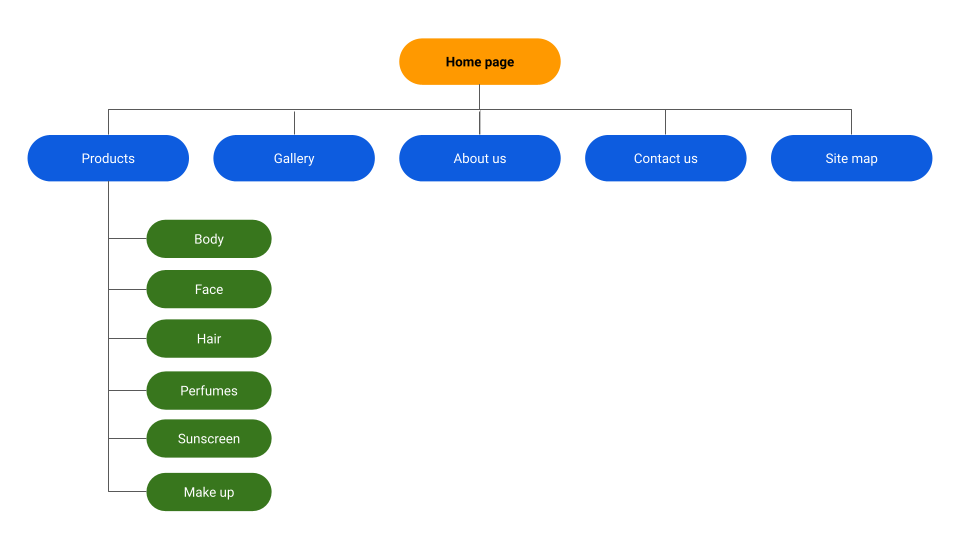
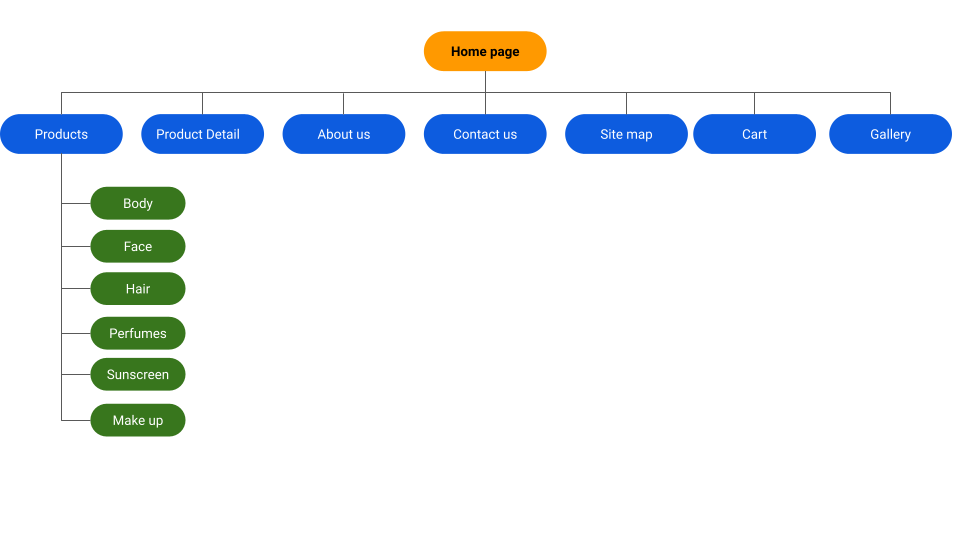
big update

Changed region(s): [[0.0, 0.2074, 1.0, 0.9481], [0.4062, 0.0593, 0.5938, 0.1778]]

diff --git a/src/HomePage.js b/src/HomePage.js
@@ -11,6 +11,7 @@ function Main() {
   const [currentSlide, setCurrentSlide] = useState(0);
   const [products, setProducts] = useState([]);
   const [filteredProducts, setFilteredProducts] = useState([]);
+  const navigate = useNavigate();
 
   useEffect(() => {
     fetchProducts();
@@ -49,7 +50,7 @@ function Main() {
       breakpoint: 1200,
       settings: {
         slidesToShow: 3,
-        slidesToScroll: 3,
+        slidesToScroll: 1,
         duration: 300, // Adjust duration for smoother transition
         easing: 'ease-in-out' // Use smooth easing function
       }
@@ -58,7 +59,7 @@ function Main() {
       breakpoint: 800,
       settings: {
         slidesToShow: 2,
-        slidesToScroll: 2,
+        slidesToScroll: 1,
         duration: 300,
         easing: 'ease-in-out'
       }
@@ -158,7 +159,7 @@ function Main() {
               <Slide cssClass='Main__slide--layout' autoplay={false} canSwipe={false} transitionDuration={500} slidesToScroll={1} slidesToShow={4} responsive={responsiveSettings}>
                 {filteredProducts.slice(0, 9).map(product => (
                   <div className='Main__slide--detail' key={product.id}>
-                    <Card style={{ width: '18rem' }}>
+                    <Card  onClick={() => navigate(`/Product/${product.id}`)} style={{ width: '18rem' }}>
                       <Card.Img className='Main__slide--img' variant="top" src={process.env.PUBLIC_URL + '../proImg/' + product.img_url.split(",")[0] + ".jpg"} />
                       <Card.Body className='Main__slide--tiitle'>
                         <Card.Title>{product.name}</Card.Title>
@@ -186,27 +187,27 @@ function Main() {
 }
 
 
-function Product({name,img_url,price,rating,id}){
-  var pic=img_url?.split(",")[0]+".jpg";
+// function  Product({name,img_url,price,rating,id}){
+//   var pic=img_url?.split(",")[0]+".jpg";
 
-  const navigate = useNavigate();
-  return(
-      <div onClick={() => navigate(`/Product/${id}`)}>
-      <Card className='Product__layout'>
-        <Card.Img className='Product__img' variant="top" src={process.env.PUBLIC_URL + "../proImg/"+pic}  />
-        <Card.Body>
-          <Card.Title>{name}</Card.Title>
-          <Card.Text>
-            {price }<br />
-            <div className="product-rating">
-              {"★".repeat(Math.floor(rating)) +
-              "☆".repeat(5 - Math.floor(rating))}
-            </div>
-          </Card.Text>
-        </Card.Body>
-      </Card>
-       </div>                      
-  )
-}
+//   const navigate = useNavigate();
+//   return(
+//       <div onClick={() => navigate(`/Product/${id}`)}>
+//       <Card className='Product__layout'>
+//         <Card.Img className='Product__img' variant="top" src={process.env.PUBLIC_URL + "../proImg/"+pic}  />
+//         <Card.Body>
+//           <Card.Title>{name}</Card.Title>
+//           <Card.Text>
+//             {price }<br />
+//             <div className="product-rating">
+//               {"★".repeat(Math.floor(rating)) +
+//               "☆".repeat(5 - Math.floor(rating))}
+//             </div>
+//           </Card.Text>
+//         </Card.Body>
+//       </Card>
+//        </div>                     
+//   )
+// }
 
 export default Main;

diff --git a/src/Sitemap.js b/src/Sitemap.js
@@ -5,13 +5,14 @@ function Sitemap(){
         <>
             <div className='Sitemap'><img useMap='#sitemap' src={process.env.PUBLIC_URL + '../img/Banner-hero img/site map.png'} class=" img-fluid" alt="Site map"></img></div>
             <map name="sitemap">
-                <area shape="rect" coords="403,37,560,80" href="/" alt="Home" />
-                <area shape="rect" coords="30,130,185,180" href="/Product" alt="Product" />
-                <area shape="rect" coords="215,130,380,180" href="/Gallery" alt="gallery" />
-                <area shape="rect" coords="400,130,560,180" href="/aboutus" alt="About us" />
-                <area shape="rect" coords="580,130,750,180" href="/contactus" alt="Contact us" />
-                <area shape="rect" coords="770,130,940,180" href="/sitemap" alt="Site map" />
-                {/* <area shape="rect" coords="215,130,380,180" href="/Gallery" alt="gallery" /> */}
+                <area shape="rect" coords="430,115,550,150" href="/" alt="Home" />
+                <area shape="rect" coords="5,115,120,150" href="/Product" alt="Product" />
+                <area shape="rect" coords="140,115,260,150" href="/Product/1" alt="Product Detail" />
+                <area shape="rect" coords="280,115,400,150" href="/aboutus" alt="About us" />
+                <area shape="rect" coords="425,115,540,150" href="/contactus" alt="Contact us" />
+                <area shape="rect" coords="570,115,690,150" href="/sitemap" alt="Site map" />
+                <area shape="rect" coords="700,115,815,150" href="/cart" alt="Cart" />
+                <area shape="rect" coords="835,115,950,150" href="/Gallery" alt="gallery" />
             </map>
         </>
     );

diff --git a/src/Header.js b/src/Header.js
@@ -14,11 +14,7 @@ function Header(){
     const handleDropDownClose= () =>{
         setDropDown(false);
     };
-    const navigate = useNavigate();
-
-    const handleClick = (category) => {
-        navigate(`/Product?category=${category}`);
-    };
+    
 
     return(
         <div className='bgColor'>
@@ -30,7 +26,7 @@ function Header(){
                         {dropDown && (
                             <ul onMouseEnter={handleDropDownOpen} onMouseLeave={handleDropDownClose}  className='Header__dropBox'>
                                 <Link to={"/Product"}  className='Header__dropBox--detail'>Body</Link>
-                                <Link  to={"/Product"} className='Header__dropBox--detail' onClick={() => handleClick("FACE")}>Face</Link>
+                                <Link  to={"/Product"} className='Header__dropBox--detail'>Face</Link>
                                 <Link to={"/"} className='Header__dropBox--detail'>Hair</Link>
                                 <Link to={"/"} className='Header__dropBox--detail'>Sun Cream </Link>
                                 <Link to={"/"} className='Header__dropBox--detail'>Perfumes</Link>

diff --git a/src/ProductDetails.js b/src/ProductDetails.js
@@ -139,7 +139,7 @@ function ProductDetails() {
               <div
                 className="related-product-card"
                 key={relatedProduct.id}
-                onClick={() => navigate(`/Product/${relatedProduct.id}`)}
+                onClick={() => {window.location.href=`/Product/${relatedProduct.id}`;}}
               >
                 {firstImageUrl && (
                   <img

diff --git a/src/Homepage.css b/src/Homepage.css
@@ -85,8 +85,8 @@
     zoom: 1.05;
   }
   .Main__slide--img {
-    height: 500px;
-    object-fit: cover;
+    height: 400px;
+    object-fit: contain;
     transition: all 0.2s;
   }
   .Main__slide--tiitle {
